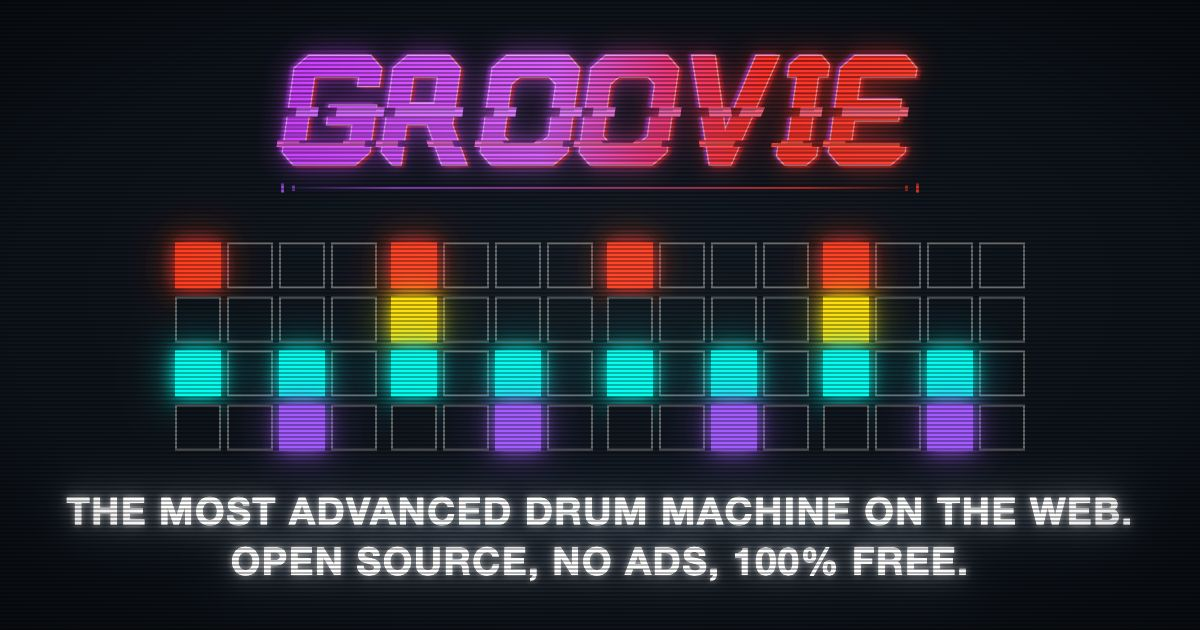
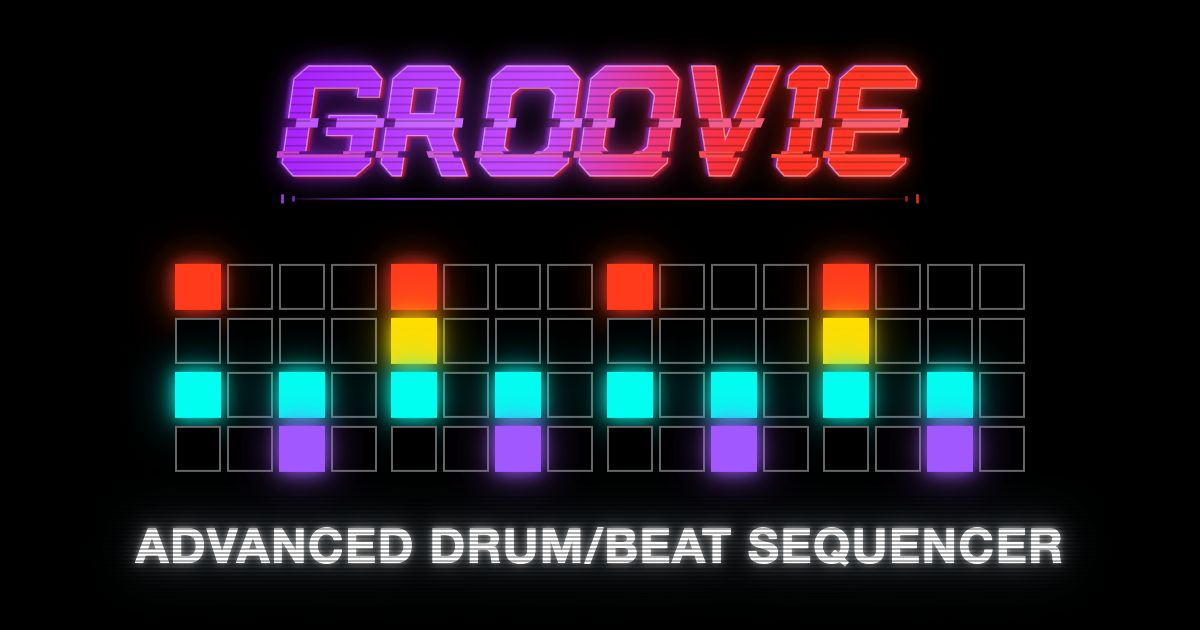
Update social media image

diff --git a/tools/make_og_image.py b/tools/make_og_image.py
@@ -8,15 +8,21 @@ bitmap committed to the repo rather than anything drawn at load time.
 
 Two files come out. The JPEG is the one index.html points at: the picture has
 to be fetched before the card can be drawn, and the same picture as a PNG is
-close to five times the bytes, since a PNG stores every one of the scanlines
-exactly. The PNG is kept because links shared before this changed still ask
-for it, and a card whose picture 404s is shown as a bare link.
+around three times the bytes. The PNG is kept because links shared before this
+changed still ask for it, and a card whose picture 404s is shown as a bare
+link.
 
 The picture is the logo over a step sequencer grid playing a plain four-four
-beat, in the colours the app draws patterns in. There is no text in it beyond
-the logo: what a preview says comes from the og:title and og:description tags,
-where it stays selectable and translatable, and where it doesn't have to be
-rendered in whatever font happens to be installed.
+beat, in the colours the app draws patterns in, and a one line tagline under
+it. The rest of what a preview says comes from the og:title and
+og:description tags, where it stays selectable and translatable, and where it
+doesn't have to be rendered in whatever font happens to be installed.
+
+It is drawn on flat black with nothing laid over the whole field. Facebook and
+the rest rescale and re-encode the picture, and a wash or a screenful of
+scanlines does not survive that as the effect it was meant to be -- it arrives
+as a haze over everything, which is what made an earlier version of this look
+blurry and faded once shared.
 
 Rasterising is done by Chrome in headless mode, which is the one renderer on
 hand that draws an SVG at the size it was drawn at. The obvious alternative on
@@ -48,11 +54,11 @@ HEIGHT = 630
 # Colours the app draws with, from view.js and style.css. A row of the grid is
 # drawn in the colour its pattern would be, so the picture and the app agree.
 #
-# The background is a hair off black rather than black. Scanlines work by
-# taking light away, so on a truly black field there is nothing for them to
-# take and they only show where the picture is already lit. Lifting the floor
-# a little gives them something to bite on everywhere.
-BACKGROUND = '#0d1117'
+# The background is fully black. A feed rescales the picture and re-encodes it,
+# and anything laid over the whole field -- a lifted floor, a wash, scanlines --
+# survives that as a grey veil rather than as the effect it was meant to be.
+# Black keeps the lit cells and the logo as the only things in the picture.
+BACKGROUND = '#000000'
 CELL_OFF_BORDER = '#666666'
 
 # One row per colour, each with the part a kit piece would play. Read together
@@ -77,17 +83,15 @@ STEP_GAP = 8
 BEAT_GAP = 16
 ROW_GAP = 10
 
-# The tagline under the grid, in the app's own words. It is burnt into the
-# picture as well as being in the og:description tag: a preview card is often
-# shown with the description cut off or dropped, and this is the line that
-# says what the thing is.
+# The tagline under the grid. It is burnt into the picture as well as being in
+# the og:description tag: a preview card is often shown with the description
+# cut off or dropped, and this is the line that says what the thing is.
 TAGLINE = [
-    'THE MOST ADVANCED DRUM MACHINE ON THE WEB.',
-    'OPEN SOURCE, NO ADS, 100% FREE.',
+    'ADVANCED DRUM/BEAT SEQUENCER',
 ]
 TAGLINE_FONT = 'Helvetica Neue, Helvetica, Arial, sans-serif'
-TAGLINE_SIZE = 38
-TAGLINE_LEAD = 50
+TAGLINE_SIZE = 48
+TAGLINE_LEAD = 62
 
 # How tall a capital stands as a fraction of the font size. Helvetica's is
 # 0.717, and the tagline is all capitals, so this is the height the block of
@@ -108,23 +112,20 @@ LOGO_INK_BOTTOM = 189
 # with a gap between the rows it lights. Two pixels dark in four reads as a
 # screen; anything finer turns to grey once a feed rescales the picture.
 #
-# How dark those two pixels are is a tax on the whole picture, and it is paid
-# twice. A feed does not show the picture at the size it was drawn: Facebook
-# takes it to 1000x522, and once the lines are below a pixel each they stop
-# reading as lines and just come out as a veil over everything. Taking 30
-# percent rather than 42 still reads as a tube up close and leaves the colours
-# with enough left in them to survive the rescale.
+# They are laid over the tagline alone rather than over the whole picture. A
+# feed does not show the picture at the size it was drawn -- Facebook takes it
+# to 1000x522 -- and once the lines are below a pixel each they stop reading as
+# lines and come out as a veil, which is what made a shared card look blurry
+# and faded. Over one band of white text they are small enough to read as a
+# texture on the words and to cost the rest of the picture nothing.
 SCANLINE_PITCH = 4
-SCANLINE_DARK = 0.30
+SCANLINE_DARK = 0.32
 
-# The wash across the face of the tube, brightest in the middle. This is a
-# screen blend, so what it really does is lift the black the picture sits on,
-# and it was doing it hard enough to be the main reason a shared card came
-# back looking washed out: the background under the logo was arriving at
-# roughly (27, 37, 47) instead of the near black it is drawn on. Enough of it
-# is kept for the middle to read as lit; the rest went.
-TUBE_GLOW_CORE = 0.07
-TUBE_GLOW_MID = 0.03
+# How far past the ink the scanline band reaches, so the lines cross the bloom
+# around the words too and not just the letters. Everything outside the words
+# is black, and dark lines over black are invisible, so the band can be
+# generous without showing an edge.
+SCANLINE_PAD = 34
 
 
 def grid_width():
@@ -162,7 +163,7 @@ def logo_markup():
 
 
 def defs_markup():
-    """The bloom filters and the tube overlays, one per thing that needs one.
+    """The bloom filters and the scanline tile, one per thing that needs one.
 
     A filter per row colour rather than one shared one: feDropShadow takes the
     colour it spreads as an attribute, not from what it is applied to, so a
@@ -195,29 +196,8 @@ def defs_markup():
         f'</pattern>'
     )
 
-    # The bloom off the face of the tube: a cool wash that is brightest in the
-    # middle and gone by the edges, laid over everything in screen mode.
-    out.append(
-        '<radialGradient id="tubeGlow" cx="50%" cy="46%" r="72%">'
-        f'<stop offset="0%" stop-color="#6fd8ff" '
-        f'stop-opacity="{TUBE_GLOW_CORE}"/>'
-        f'<stop offset="45%" stop-color="#4aa6ff" '
-        f'stop-opacity="{TUBE_GLOW_MID}"/>'
-        '<stop offset="100%" stop-color="#000000" stop-opacity="0"/>'
-        '</radialGradient>'
-    )
-
-    # And the dark at the corners, which is the other half of a tube looking
-    # like a tube: the picture has to fall off where the glass curves away.
-    out.append(
-        '<radialGradient id="vignette" cx="50%" cy="50%" r="78%">'
-        '<stop offset="62%" stop-color="#000000" stop-opacity="0"/>'
-        '<stop offset="100%" stop-color="#000000" stop-opacity="0.45"/>'
-        '</radialGradient>'
-    )
-
     # The tagline gets a bloom too, for the same reason the cells do: the
-    # scanlines cut a fifth out of everything they cross, and white text is
+    # scanlines cut a third out of everything they cross, and white text is
     # the one thing in the picture that has to still look white afterwards.
     out.append(
         '<filter id="textBloom" x="-40%" y="-140%" width="180%" height="380%">'
@@ -315,14 +295,17 @@ def build_svg():
             f'filter="url(#textBloom)">{line}</text>'
         )
 
-    # The tube, over the lot. Order matters: the glow lifts the whole picture,
-    # then the lines cut into what the glow lifted, then the corners go dark.
-    out += [
-        f'<rect width="{WIDTH}" height="{HEIGHT}" fill="url(#tubeGlow)" '
-        f'style="mix-blend-mode:screen"/>',
-        f'<rect width="{WIDTH}" height="{HEIGHT}" fill="url(#scanlines)"/>',
-        f'<rect width="{WIDTH}" height="{HEIGHT}" fill="url(#vignette)"/>',
-    ]
+    # The scanlines, over the tagline and its bloom and nothing else. The band
+    # is snapped to the pitch so the lines land the same way every run, rather
+    # than shifting by a pixel whenever the text moves.
+    band_top = text_y - cap_h / 2 - SCANLINE_PAD
+    band_top -= band_top % SCANLINE_PITCH
+    band_h = text_h + 2 * SCANLINE_PAD
+
+    out.append(
+        f'<rect x="0" y="{band_top:.0f}" width="{WIDTH}" '
+        f'height="{band_h:.0f}" fill="url(#scanlines)"/>'
+    )
 
     out.append('</svg>')
 
